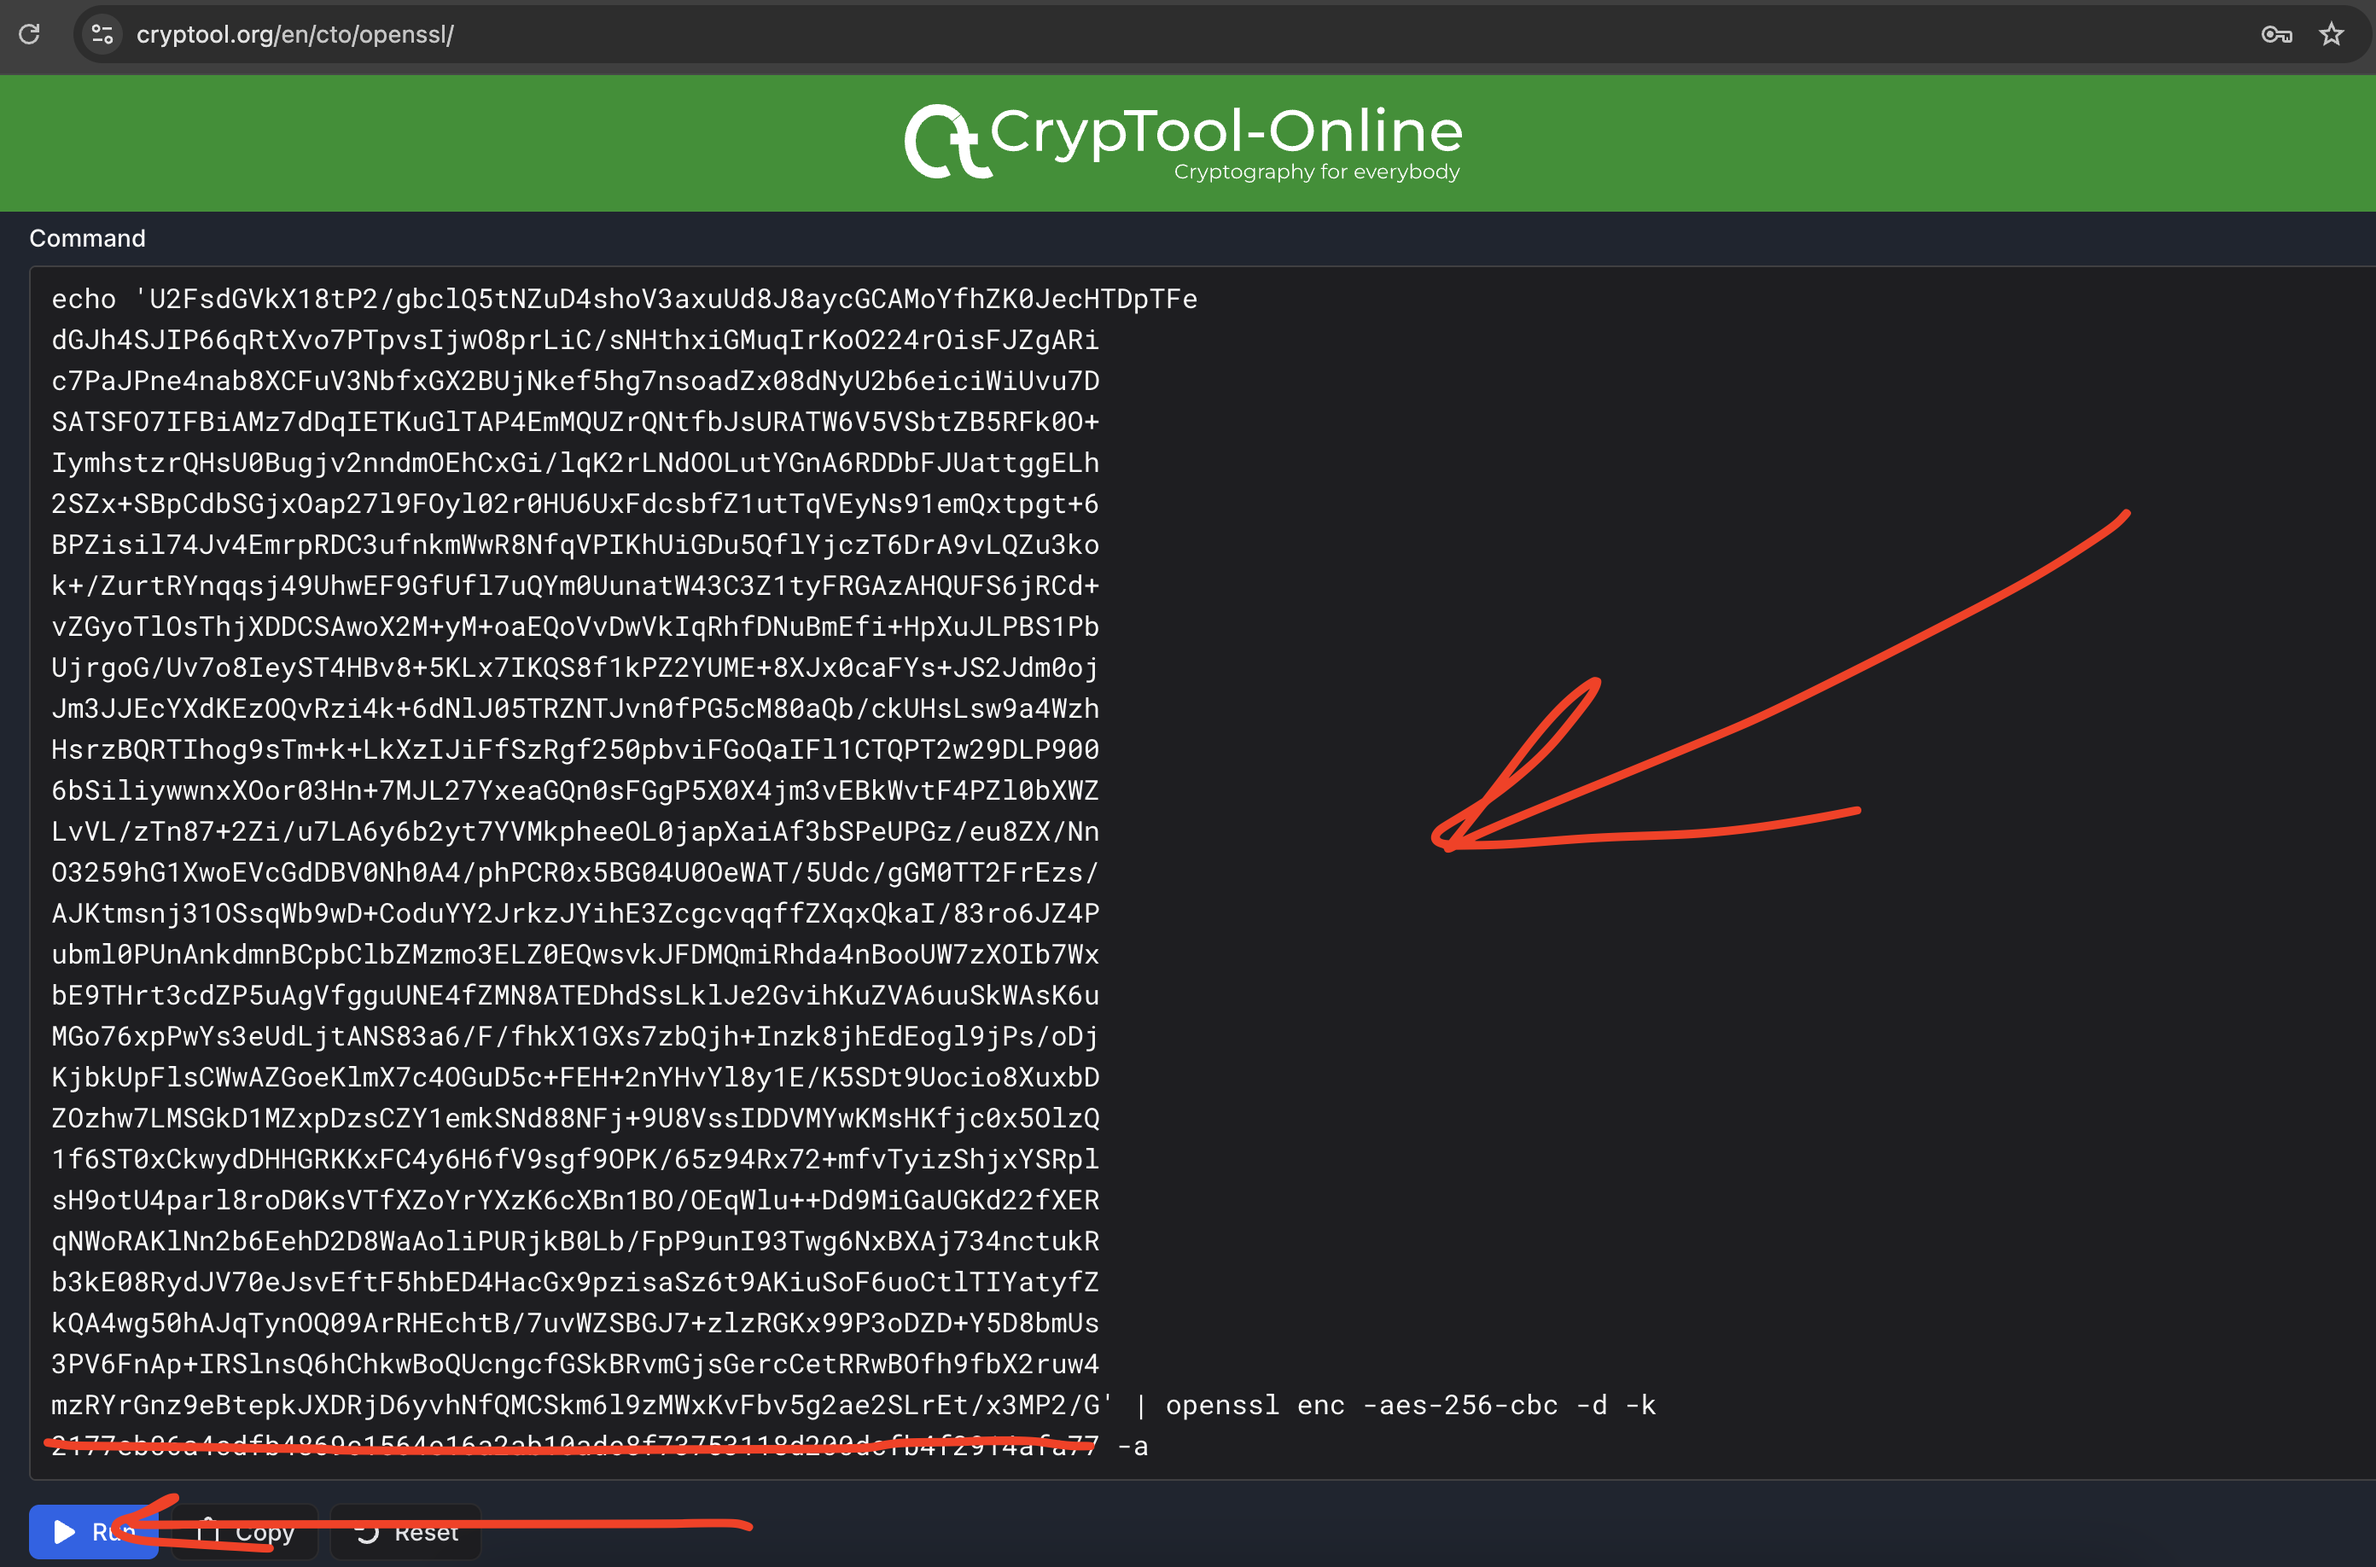
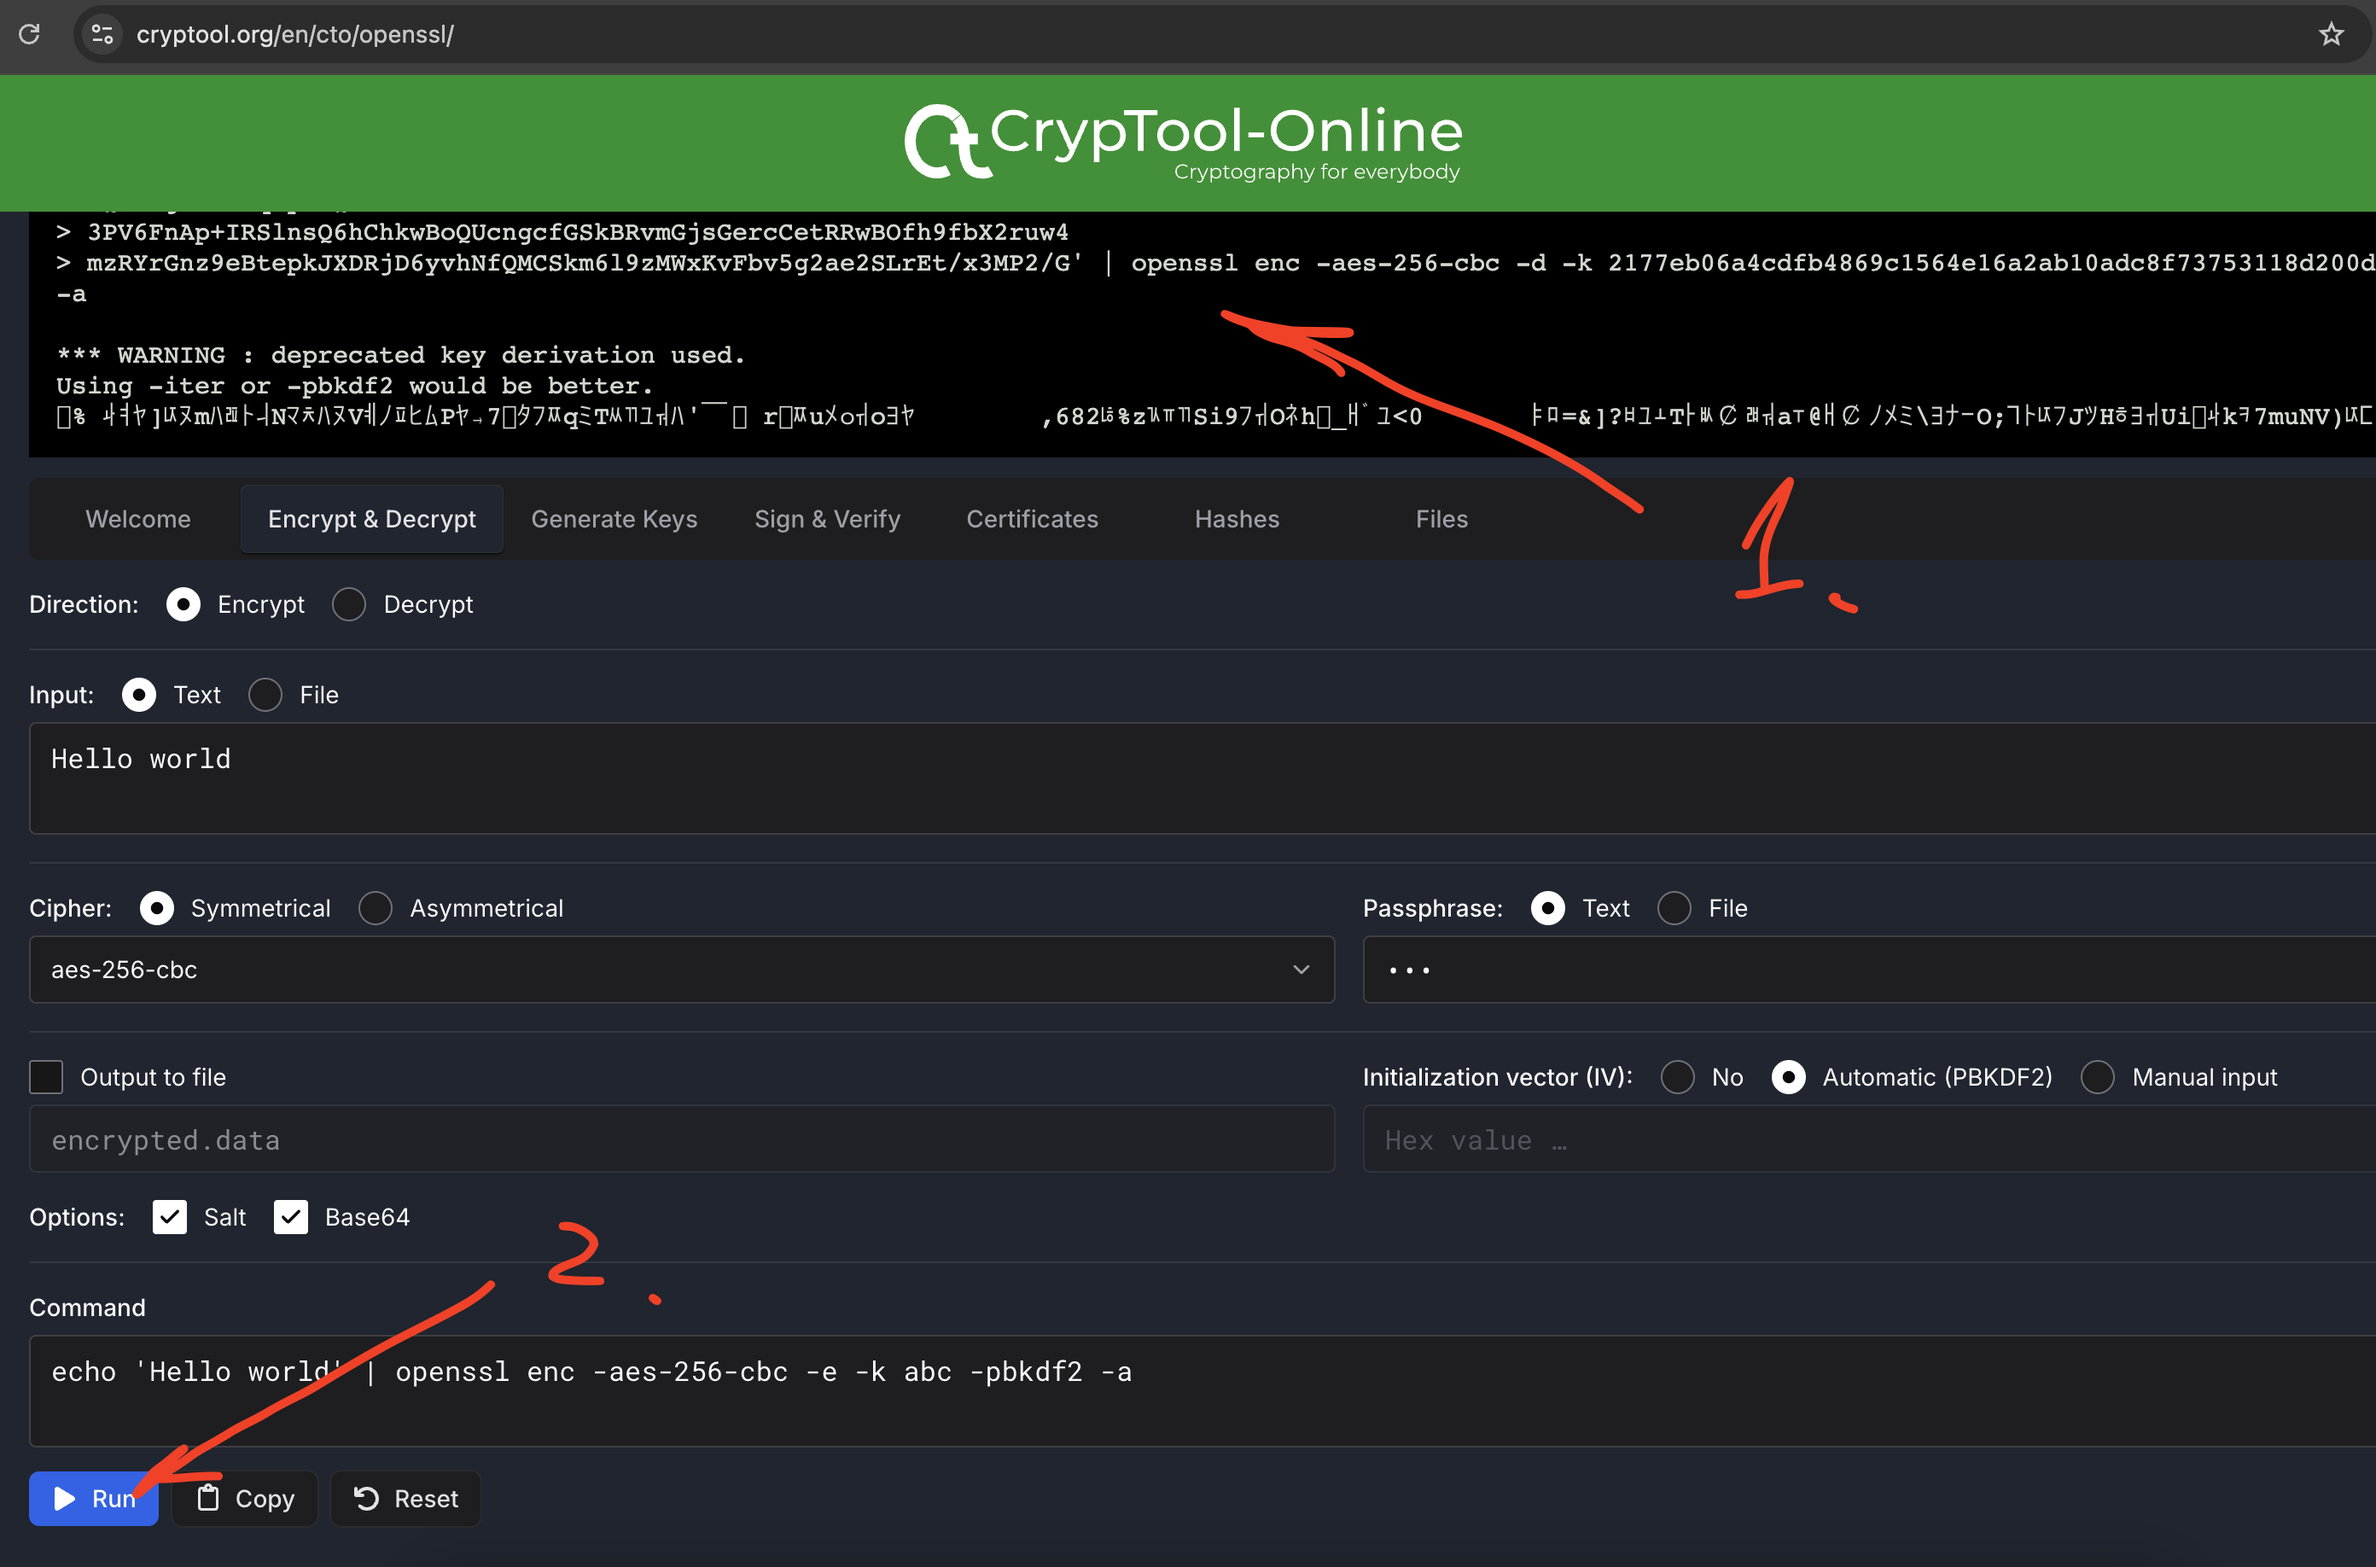
Fix cryptool instructions

diff --git a/README.md b/README.md
@@ -209,7 +209,7 @@ You can easily check this in your terminal or with this [online tool](https://ww
 You would need to select "Encrypt & Decrypt" tab:
 <img src="./assets/cryptool-1.png" alt="cryptool1" />
 
-Then paste command from the box above into "command" textbox and press "Run":
+Then paste command from the box above into terminal simulation and hit "Run":
 <img src="./assets/cryptool-2.png" alt="cryptool2" />
 
 You will see, that there is no "Bad Decrypt" error reported by OpenSSL.
